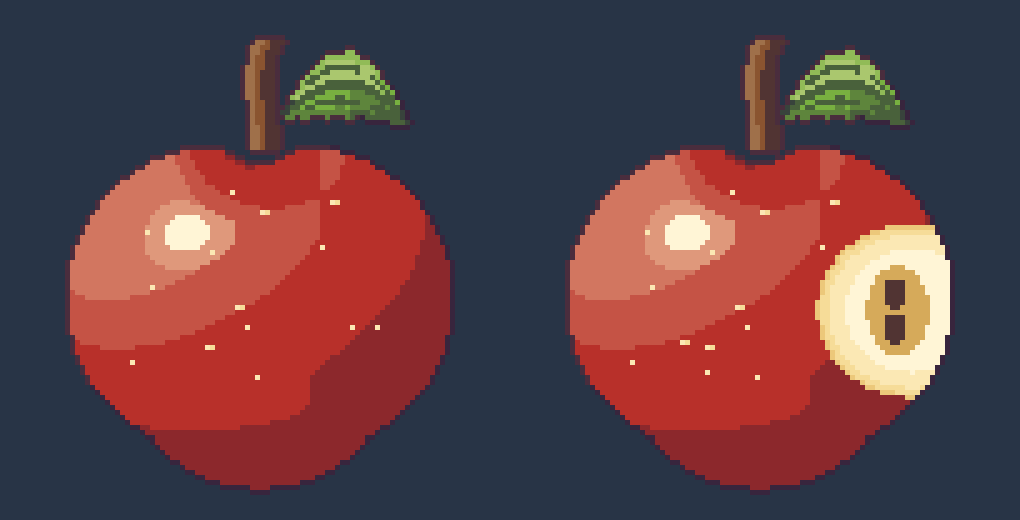
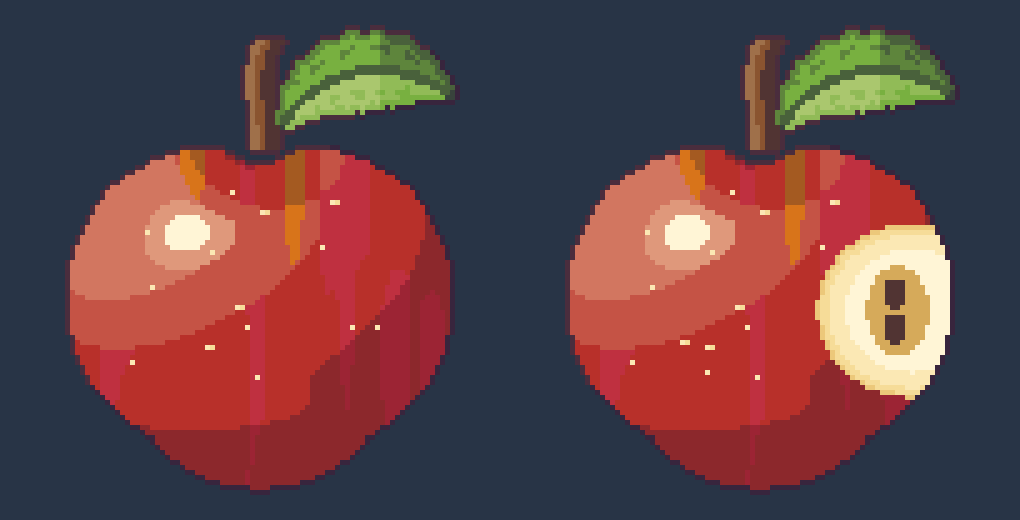
Apple HD: new leaf, apple-skin stripes, shoulders
Claude-Session: https://claude.ai/code/session_01StugNUrjnQmKyw4JosAoSb

diff --git a/games/farmhouse/pixel/gen_apple_hd.py b/games/farmhouse/pixel/gen_apple_hd.py
@@ -32,7 +32,9 @@ def apple(S=96, bitten=False):
     c2 = ((x - 19.2) / 9.6) ** 2 + ((y - 18.6) / 10.0) ** 2 <= 1
     low = ((x - 16) / 8.6) ** 2 + ((y - 23.6) / 7.6) ** 2 <= 1
     wob = 1 + .02 * np.sin(x * .9 + 1.0) + .015 * np.sin(y * 1.3)
-    body0 = (c1 | c2 | low) & ~(((x - 16) / 3.2) ** 2 + ((y - 7.0) / 2.6) ** 2 <= 1)
+    sh1 = ((x - 10.2) / 5.6) ** 2 + ((y - 14.6) / 5.0) ** 2 <= 1
+    sh2 = ((x - 21.8) / 5.6) ** 2 + ((y - 14.6) / 5.0) ** 2 <= 1
+    body0 = (c1 | c2 | low | sh1 | sh2) & ~(((x - 16) / 3.2) ** 2 + ((y - 7.0) / 2.6) ** 2 <= 1)
     bite = (body0 & (((x - 26.2) / 6.4) ** 2 + ((y - 19.4) / 5.8) ** 2 <= 1)) if bitten else np.zeros_like(body0)
     body = body0 & ~bite
     # ---- 高さ場（球＋上下のくぼみ）→ 法線
@@ -51,15 +53,16 @@ def apple(S=96, bitten=False):
     I = np.clip((.26 + .74 * lam) * ao + bounce * .22, 0, 1)
     # ---- 色むら：縦しま（赤・だいだい）
     ang = np.arctan2(x - 16, 20)
-    st = vn(ang * 7 + 3, y * .08, 5) * .7 + vn(ang * 16, y * .15, 6) * .3
+    st = vn(ang * 9 + 3, y * .05, 5) * .65 + vn(ang * 21, y * .09, 6) * .35
     orange = np.clip((st - .56) * 3.2, 0, 1) * np.clip(1.15 - (y - 4) / 22, 0, 1)                    # 上ほどだいだい
     deep = np.zeros_like(st)
     # ---- 7段にまとめる（網点なし）
     band = np.clip(np.floor(I * 7.0 + .15), 0, 6).astype(int)
     for yy, xx in zip(*np.nonzero(body)):
         b = band[yy, xx]; o = orange[yy, xx]; d = deep[yy, xx]
-        if o > .85 and b >= 2: f, sh = 'H', min(7, b + 1)                                              # だいだいのしま
-        elif d > .72 and b <= 4: f, sh = 'u', max(1, b + 1)                                                # 深い赤のしま（暗い）
+        sv_ = st[yy, xx]
+        if sv_ > .72 and 3 <= b <= 5 and y[yy, xx] < 21: f, sh = 'H', [1, 2, 3, 3, 4, 5, 6][b] - (1 if b >= 4 else 0)         # だいだい赤のしま
+        elif sv_ < .27 and b <= 4: f, sh = 'u', min(6, [1, 2, 3, 4, 4, 5, 6][b] + 0)                         # 深いワインのしま
         else: f, sh = 'G', [1, 2, 3, 4, 4, 5, 6][b]
         A[yy, xx, :3] = col(f, sh); A[yy, xx, 3] = 255
     # つや（2段：やわらかいふち＋まぶしい芯）
@@ -82,24 +85,26 @@ def apple(S=96, bitten=False):
             xx, yy = int((sx + dx) * k), int(sy * k)
             if 0 <= xx < S and 0 <= yy < S and (sy < 8.6):
                 t = (dx + .75) / 1.5; A[yy, xx, :3] = col('D', 5 if t < .3 else 4 if t < .65 else 2); A[yy, xx, 3] = 255
-    # ---- 葉（曲がった形、葉脈、ぎざぎざ）
-    lx0, ly0 = 17.4, 6.4
-    for yy in range(S):
-        for xx in range(S):
-            px_, py_ = (xx + .5) / k, (yy + .5) / k
-            t = (px_ - lx0) / 9.0
-            if not (0 <= t <= 1): continue
-            cy_ = ly0 - 2.6 * math.sin(t * math.pi * .9) + 1.8 * t * t                          # 中心線（上へ反って先が下がる）
-            wd = 2.1 * math.sin(math.pi * min(1, t * 1.05)) ** .8
-            wd *= 1 + .08 * math.sin(t * 40)                                                  # ぎざぎざ
-            dy = py_ - cy_
-            if abs(dy) <= wd:
-                up = dy < 0; vein = abs(dy) < .35 or (abs(dy - (-1 if up else 1) * (t * 4 % 1.5)) < .2 and abs(dy) > .6 and False)
-                side = vn(px_ * 2, py_ * 2, 9)
-                sh = 2 if vein else (6 if up and t < .75 else 5 if up else 4 if t < .5 else 3)
-                if abs(abs(dy) - wd) < .45: sh = max(1, sh - 1)
-                A[yy, xx, :3] = col('O', sh); A[yy, xx, 3] = 255
-                if abs(abs(dy) - wd * .55) < .22 and t > .15 and t < .85 and h2(int(t * 12), 0, 2) > .3: A[yy, xx, :3] = col('O', 2)
+    # ---- 葉：茎のつけ根から右上へ反って先がとがる。中央の葉脈、左右で明暗、ふちのぎざぎざ
+    path = bez((17.2, 7.4), (20.0, 2.8), (25.0, 2.2), (29.0, 5.2), 160)
+    px_all = (X + .5) / k; py_all = (Y + .5) / k
+    best = np.full((S, S), 1e9); tt = np.zeros((S, S)); sg = np.zeros((S, S))
+    for i, (cx_, cy_) in enumerate(path):
+        d = np.hypot(px_all - cx_, py_all - cy_)
+        upd = d < best
+        tang = path[min(i + 1, len(path) - 1)] - path[max(i - 1, 0)]; tang = tang / (np.hypot(*tang) + 1e-9)
+        side = np.sign(-(px_all - cx_) * tang[1] + (py_all - cy_) * tang[0] * -1 * -1)
+        best = np.where(upd, d, best); tt = np.where(upd, i / (len(path) - 1), tt); sg = np.where(upd, np.sign((px_all - cx_) * (-tang[1]) + (py_all - cy_) * tang[0]), sg)
+    wdt = 2.7 * np.sin(np.pi * np.clip(tt * 1.0, 0, 1)) ** .75 * (1 + .06 * np.sin(tt * 55))
+    leafm = (best <= wdt) & (tt > .02)
+    for yy, xx in zip(*np.nonzero(leafm)):
+        t_ = tt[yy, xx]; d_ = best[yy, xx]; w_ = wdt[yy, xx]
+        if d_ < .32: sh = 2                                                  # 葉脈
+        elif sg[yy, xx] > 0: sh = 6 if t_ < .6 else 5                        # 明るい側
+        else: sh = 4 if t_ < .6 else 3                                       # 暗い側
+        if w_ - d_ < .45: sh = max(1, sh - 1)                                # ふちはやや暗く
+        if abs(d_ - w_ * .55) < .2 and .2 < t_ < .85 and int(t_ * 14) % 2 == 0: sh = max(1, sh - 1)    # 側脈
+        A[yy, xx, :3] = col('O', sh); A[yy, xx, 3] = 255
     # ---- かじったあと
     if bitten:
         for yy, xx in zip(*np.nonzero(bite)):
